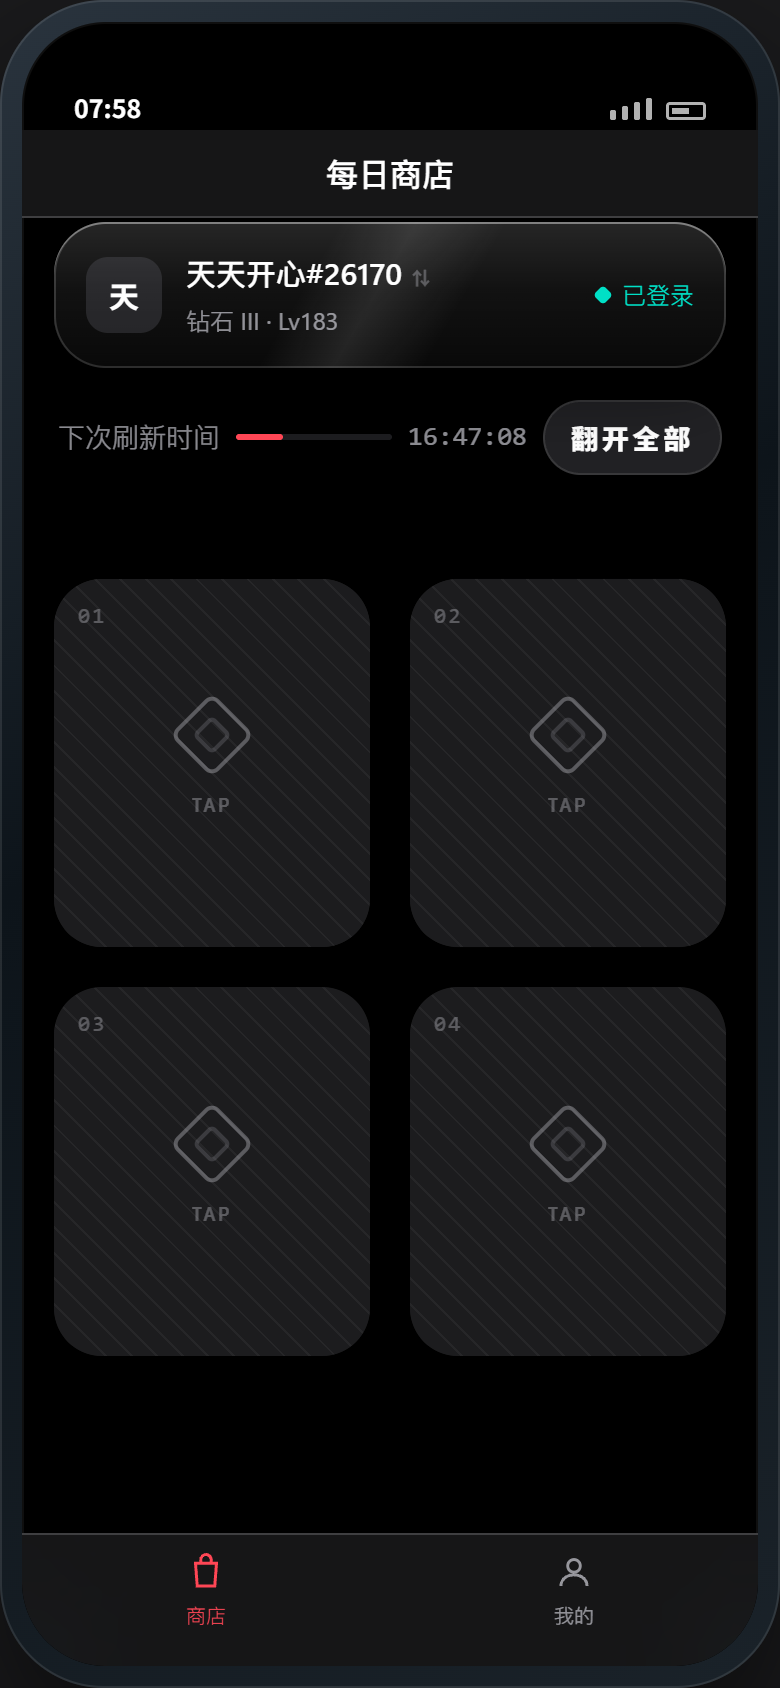
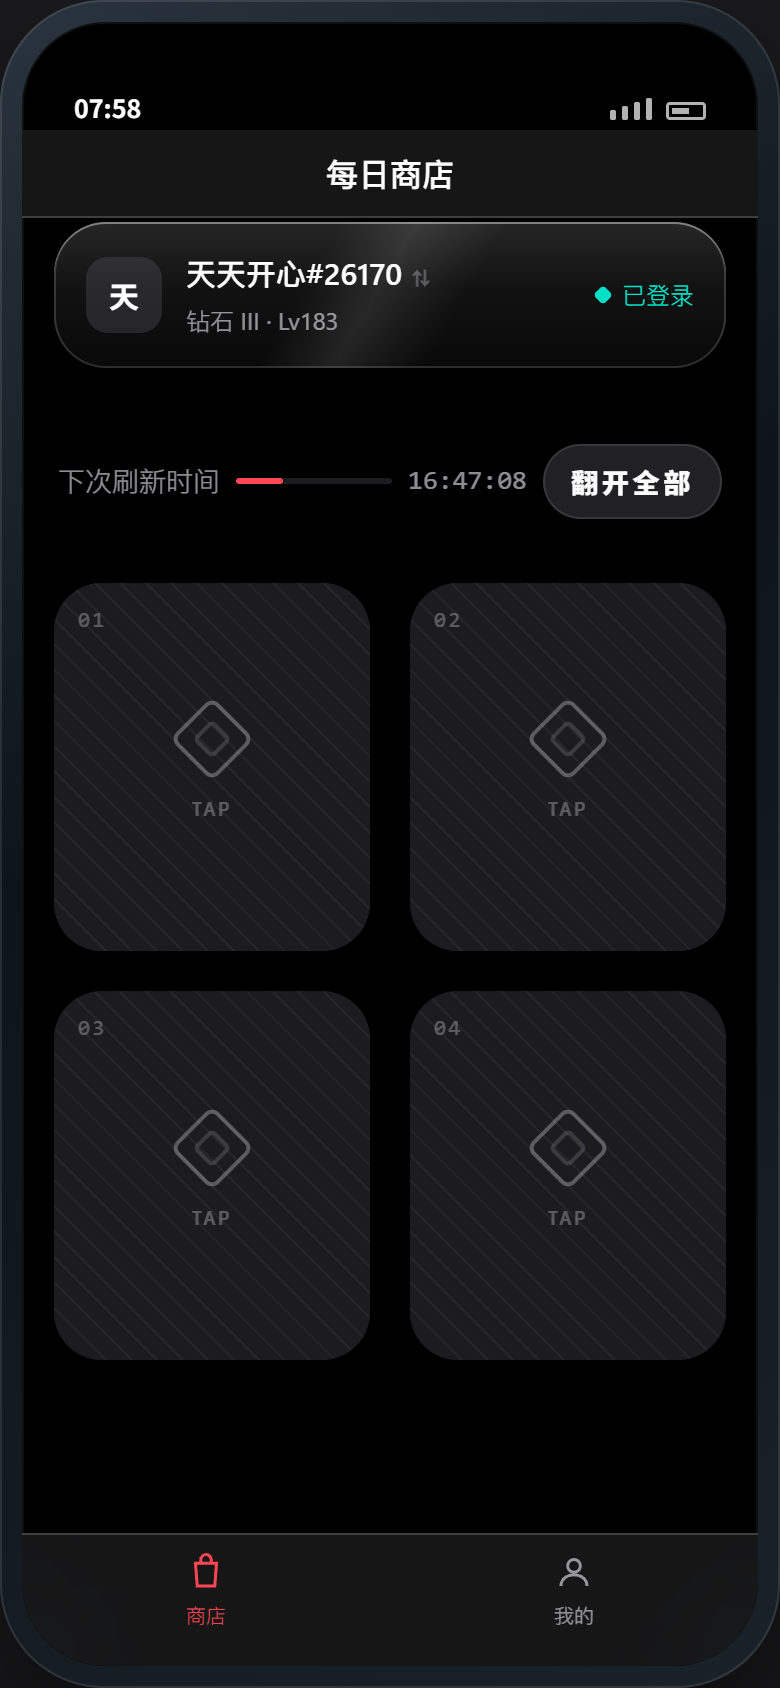
商店页：标题行下移，靠卡阵近一些（下沿留够，翻牌的光不会糊上来）
- 标题行 padding 上 8 → 30、下 52 → 32：整行往下挪 22pt，和卡阵之间的空当从 52 收到 32。
- 32pt 是按翻牌光效的实际外扩算的：光晕外扩约 15pt（band 6 + blur 12）+ 抬升 11pt
  （-7pt 位移 + 4% 缩放抬顶）≈ 26pt，留 6pt 余量；实测 mid-flip 帧里光最上沿还差
  标题行约 30px。
- 预览台同值：.board .head padding 30/32。
- design/shots 重出。

diff --git a/val-shop-ios/App/ShopView.swift b/val-shop-ios/App/ShopView.swift
@@ -222,9 +222,11 @@ struct ShopView: View {
             .disabled(model.flipped.allSatisfy { $0 })
         }
         .padding(.horizontal, 2)
-        .padding(.top, 8)          // 这一行整体往下一点点
-        // 卡阵跟着往下：原来那条整宽引信的高度，用标题行的下边距补回来再多给一点（下沿留白也收掉了）
-        .padding(.bottom, 52)
+        // 这一行整体往下、靠卡阵近一些：上边距吃掉原来那段空白（8 → 30）。
+        // 下边距 32pt —— 翻牌时光晕外扩约 15pt、抬升再 11pt，合起来约 26pt，
+        // 留出一点余量，光不会糊到这一行上。
+        .padding(.top, 30)
+        .padding(.bottom, 32)
     }
 
     /// 倒计时走自己的一秒一拍 —— 只重绘这一小块

diff --git a/val-shop-ios/design/preview.html b/val-shop-ios/design/preview.html
@@ -187,7 +187,7 @@ body{
    ② 今日四张（分组内容：小标 + 引信条 + 卡阵 + 统计）
    ========================================================================== */
 .board{margin-top:8px}
-.board .head{display:flex;align-items:center;gap:8px;padding:8px 2px 52px}
+.board .head{display:flex;align-items:center;gap:8px;padding:30px 2px 32px}
 .board .head .t{font-size:13.5px;color:var(--label-2);white-space:nowrap}
 .board .head .c{font-size:13.5px;color:var(--label-2)}
 .board .head .row{display:flex;align-items:center;gap:10px;margin-left:auto}
